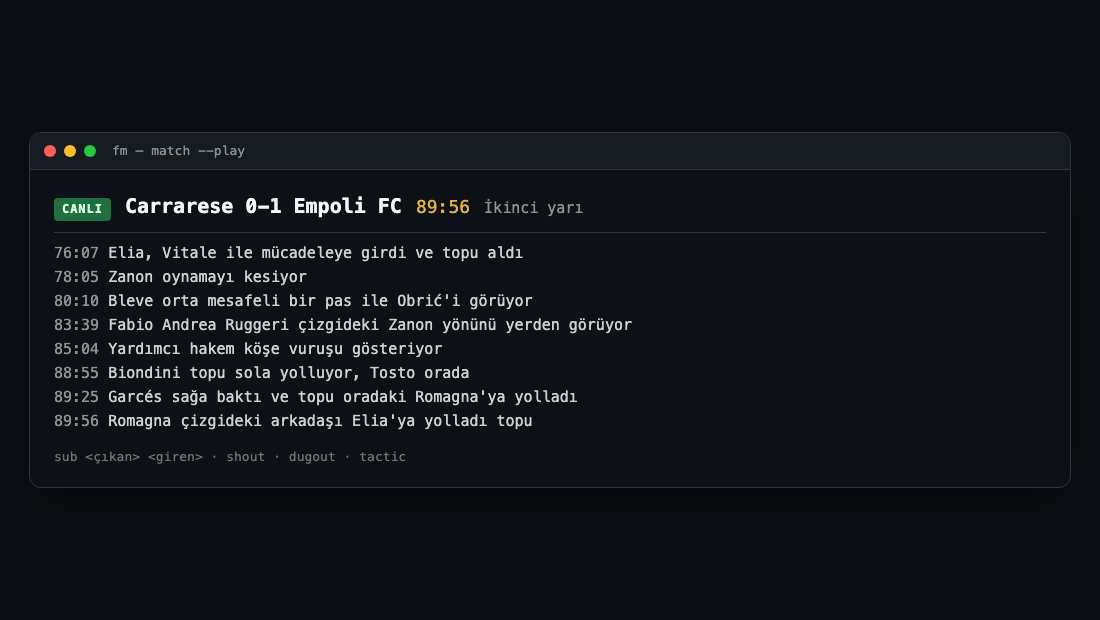
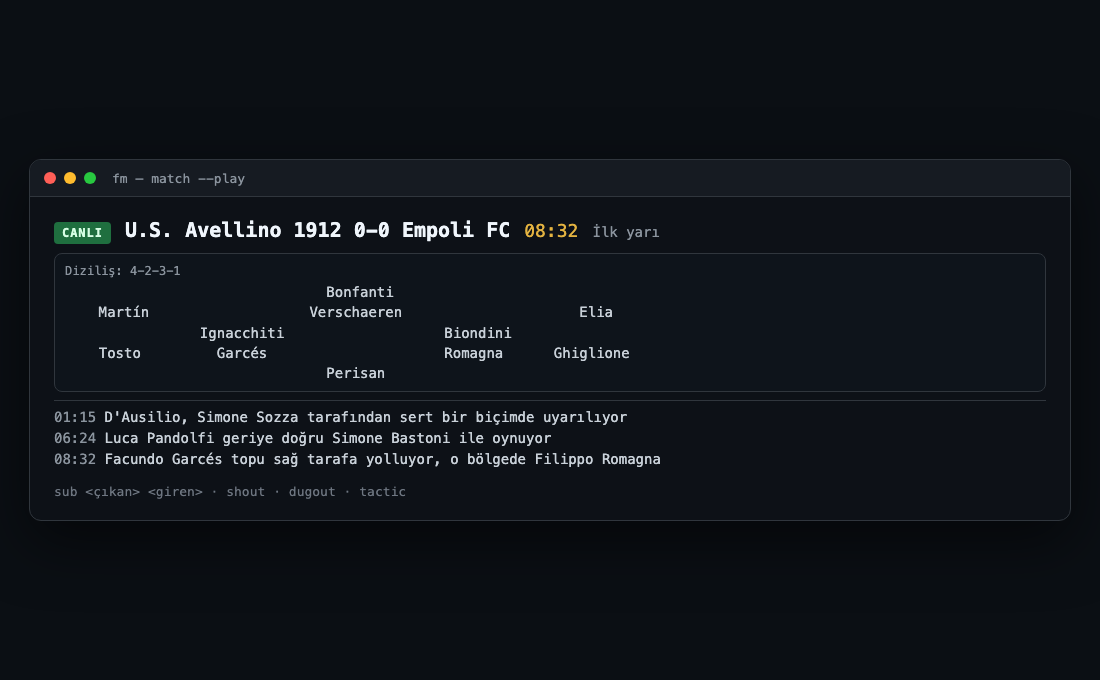
feat: draw the chosen shape in the live match panel
The panel now carries a small pitch built from the tactic slots: goal to strikers, left to right,
surnames only. The shape is learned at kick-off; substitutions do not refresh it yet. The guide and
its screenshot show the pitch.

Changed region(s): [[0.0309, 0.3065, 0.5873, 0.7661], [0.0309, 0.2145, 0.2473, 0.2758]]

diff --git a/cli/fm/Match/MatchLive.cs b/cli/fm/Match/MatchLive.cs
@@ -9,7 +9,8 @@ internal static class MatchLive
 	private static string? last;
 
 	/// <summary>Draws the panel when its text changed. Nothing when the output is not a terminal.</summary>
-	public static void Draw(string board, string minute, string period, string stats, IEnumerable<string> events)
+	public static void Draw(string board, string minute, string period, string stats, string formation,
+		IReadOnlyList<(string Spot, string Player)> shape, IEnumerable<string> events)
 	{
 		if (!Ui.Rich) return;
 
@@ -26,6 +27,7 @@ internal static class MatchLive
 				? minute * 60 + second : int.MaxValue;
 		}
 		if (stats.Length > 0) lines.Add($"  \x1b[2m{stats}\x1b[0m");
+		if (shape.Count > 0) lines.AddRange(PitchLines(formation, shape));
 		lines.Add("  " + new string('─', 72));
 		var shown = events.OrderBy(Seconds).TakeLast(8).ToList();
 		if (shown.Count == 0) lines.Add($"  \x1b[2m{L("Waiting for the first event…")}\x1b[0m");
@@ -40,6 +42,61 @@ internal static class MatchLive
 		Console.Write("\x1b[H\x1b[2J");
 		Console.WriteLine(text);
 	}
+
+	/// <summary>A small pitch: one line per phase, the player's surname in his lane.</summary>
+	private static IEnumerable<string> PitchLines(string formation, IReadOnlyList<(string Spot, string Player)> shape)
+	{
+		var lanes = new string[6, 5];
+		foreach (var (spot, player) in shape)
+		{
+			var (line, lane) = Place(spot);
+			lanes[line, lane] = Surname(player);
+		}
+
+		var rows = new List<string>();
+		for (var line = 0; line < 6; line++)
+		{
+			var row = string.Concat(Enumerable.Range(0, 5).Select(lane =>
+			{
+				var cell = lanes[line, lane] ?? "";
+				return cell.Length > 13 ? cell[..13] : cell.PadLeft(7).PadRight(14);
+			}));
+			if (row.Trim().Length > 0) rows.Add("  │" + row.TrimEnd().PadRight(70) + "│");
+		}
+		if (rows.Count == 0) return [];
+		var head = $"  │ {L("Shape")}: {formation}".PadRight(73) + "│";
+		return [ "  ┌" + new string('─', 71) + "┐", head, ..rows, "  └" + new string('─', 71) + "┘" ];
+	}
+
+	/// <summary>The line and lane a short position sits in: goal to strikers, left to right.</summary>
+	private static (int Line, int Lane) Place(string spot)
+	{
+		var text = spot.ToUpperInvariant();
+		var line = text switch
+		{
+			"GK" or "KL" => 5,
+			_ when text.StartsWith("DM", StringComparison.Ordinal) => 3,
+			_ when text.StartsWith("AM", StringComparison.Ordinal) => 1,
+			_ when text.StartsWith("ST", StringComparison.Ordinal) => 0,
+			_ when text.StartsWith('D') => 4,
+			_ when text.StartsWith('M') => 2,
+			_ => 2,
+		};
+		// A centre-back or centre-mid sits between the flank and the middle; a winger stays wide.
+		var lane = text switch
+		{
+			"DCL" or "DML" => 1,
+			"DCR" or "DMR" => 3,
+			_ when text.StartsWith("AM", StringComparison.Ordinal) && text.EndsWith('L') => 0,
+			_ when text.StartsWith("AM", StringComparison.Ordinal) && text.EndsWith('R') => 4,
+			_ when text.EndsWith('L') => 0,
+			_ when text.EndsWith('R') => 4,
+			_ => 2,
+		};
+		return (line, lane);
+	}
+
+	private static string Surname(string player) => player.Split(' ').Last();
 
 	/// <summary>Forgets the last drawing, so the next match starts with a fresh panel.</summary>
 	public static void Reset() => last = null;

diff --git a/cli/fm/Match/MatchDay.cs b/cli/fm/Match/MatchDay.cs
@@ -12,6 +12,9 @@ namespace FmCli;
 /// </summary>
 internal static partial class Program
 {
+	private static List<(string Spot, string Player)> liveShape = [];
+	private static string liveFormation = "";
+
 	private static readonly Dictionary<string, string> Stops = new()
 	{
 		["Tactics"] = L("Tactics"),
@@ -26,6 +29,24 @@ internal static partial class Program
 		["PostMatchReaction"] = L("Post-match reactions"),
 		["LeaveMatch"] = L("Leaving the match"),
 	};
+
+	/// <summary>The chosen shape, read from the tactic screen's slots; left alone when it is not up.</summary>
+	private static async Task LearnShape()
+	{
+		try
+		{
+			var tactic = await Fm.GetJson("tactic");
+			if (!tactic.TryGetProperty("Slots", out var slots)) return;
+			var shape = slots.EnumerateArray()
+				.Select(slot => (Spot: Spot(Field(slot, "IPPosition")), Player: Field(slot, "Player")))
+				.Where(slot => slot.Player.Length > 0).ToList();
+			if (shape.Count == 0) return;
+			liveShape = shape;
+			liveFormation = System.Text.RegularExpressions.Regex.Match(
+				tactic.TryGetProperty("Tactic", out var header) ? Field(header, "Name") : "", @"\d(-\d)+").Value;
+		}
+		catch (FmError) { }
+	}
 
 	/// <summary>The live numbers, our side first; empty until the game has them.</summary>
 	private static async Task<string> LiveStats(JsonElement state)
@@ -83,6 +104,7 @@ internal static partial class Program
 		}
 
 		Launcher.Activate();
+		await LearnShape();
 		var state = await Fm.GetJson("state");
 		var inMatch = Field(state, "DuringMatch") == "True";
 		if (!inMatch && Field(state, "State") is not ("Tactics" or "SubmitTeam" or "SquadNumbers"))
@@ -387,7 +409,7 @@ internal static partial class Program
 					stats = await LiveStats(state);
 				}
 				MatchLive.Draw(LiveBoard(state, names), Field(state, "MatchTime"), LivePeriod(state), stats,
-					heard.Select(h => $"{h.Minute,6}  {h.Said}"));
+					liveFormation, liveShape, heard.Select(h => $"{h.Minute,6}  {h.Said}"));
 			}
 
 			await Task.Delay(TimeSpan.FromSeconds(3));

diff --git a/docs/BACKLOG.md b/docs/BACKLOG.md
@@ -47,10 +47,10 @@ What is left, what is partial, and the ideas we do not want to lose. `[ ]` open,
 - [~] Match stats: possession, shots, on target, xG, corners, fouls; no passes or heat map.
 - [~] Text highlight summary; no minute-by-minute list of key events.
 - [?] Real-time in-match management (a different problem).
-- [~] Live match screen: the first slice shows a live score/clock/period panel with the last eight
-  events, and keeps the plain line output for scripts. Still to do: a 2D pitch, a key-moments-only
+- [~] Live match screen: the panel shows the score, clock, period, a shape pitch and the last eight
+  events; plain output stays for scripts. Still to do: live player/ball positions, a key-moments-only
   view, keys for substitution/shout/tactic/speed/view, an injury prompt, config through a file and
-  `fm settings`, and the optional ASCII 3D view.
+  `fm settings`, the pitch refreshing after substitutions, and the optional ASCII 3D view.
 - [?] Live match stats: the bindings carry `LastFixture`/`NextFixture` only, and during a match
   `IsLiveMatch` is false, so shots/possession are not live. Read the match stats page or use the
   post-match report.

diff --git a/docs/PLAYTEST.md b/docs/PLAYTEST.md
@@ -21,7 +21,8 @@
 - [ ] At the start of a season, squad numbers can be sent with `numbers --auto`.
 - [ ] `match --instant` prints **this** match's score, not the previous report.
 - [ ] `match --play` gets through narration, goals, half time and full time.
-- [ ] At a terminal, `match --play` shows the live score/event panel; a redirected run stays line-by-line.
+- [ ] At a terminal, `match --play` shows the live score/event panel and the shape pitch; a redirected
+  run stays line-by-line.
 - [ ] `next` closes the result screen afterwards and the bridge still answers.
 
 ## Known break points

diff --git a/docs/USAGE.md b/docs/USAGE.md
@@ -63,7 +63,8 @@ sending it. Irreversible commands ask at a terminal and need `--yes` in a script
 ## Watching a match
 
 `fm match --play` plays the match day in the terminal. At a terminal it draws a live panel with the
-score, clock, period, the last eight events and the commands that work during the match. A
+score, clock, period, a small pitch of the chosen shape, the last eight events and the commands that
+work during the match. A
 redirected run, or an MCP call, keeps the plain line-by-line output.
 
 ![Live match panel](img/live-match.png)
